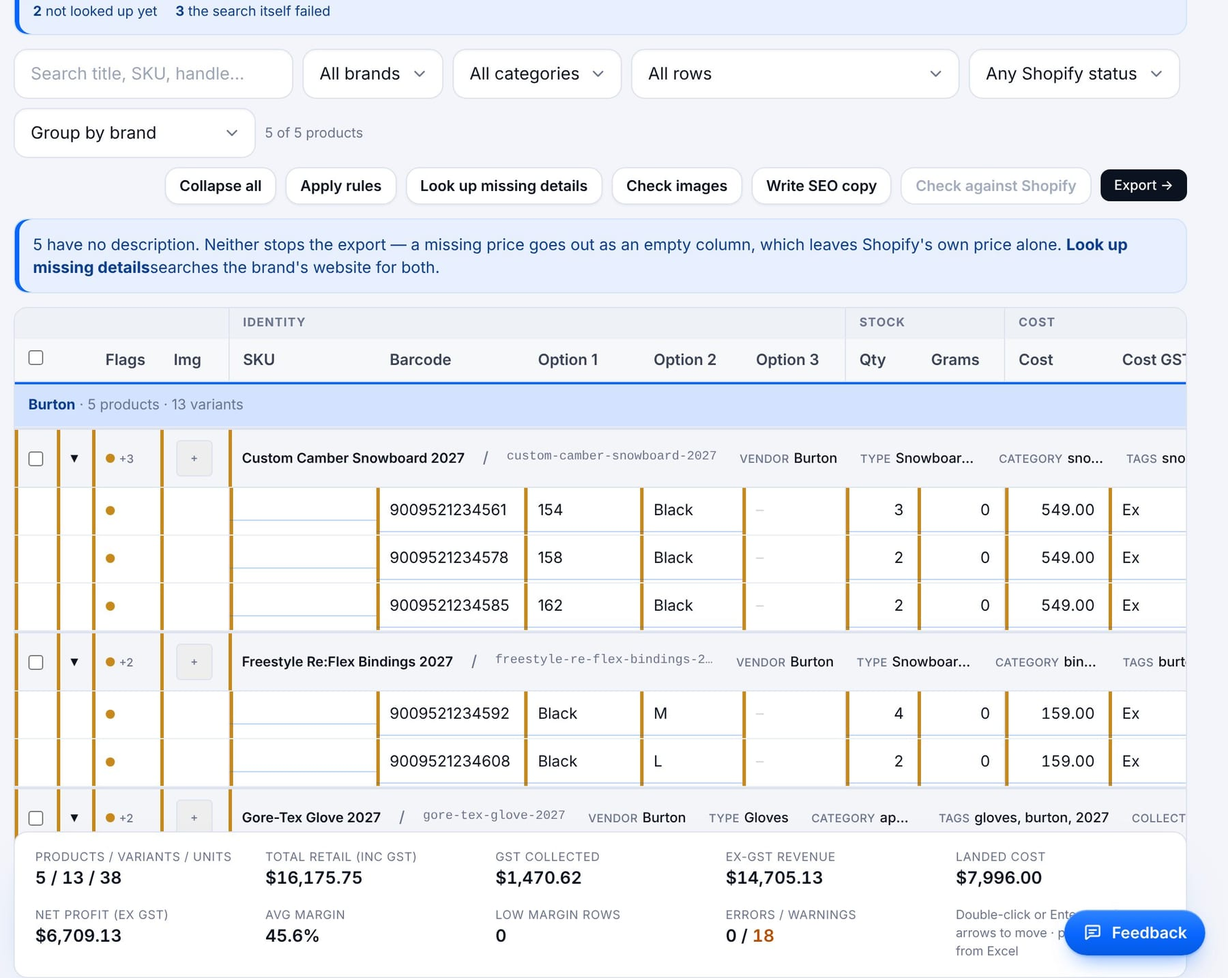
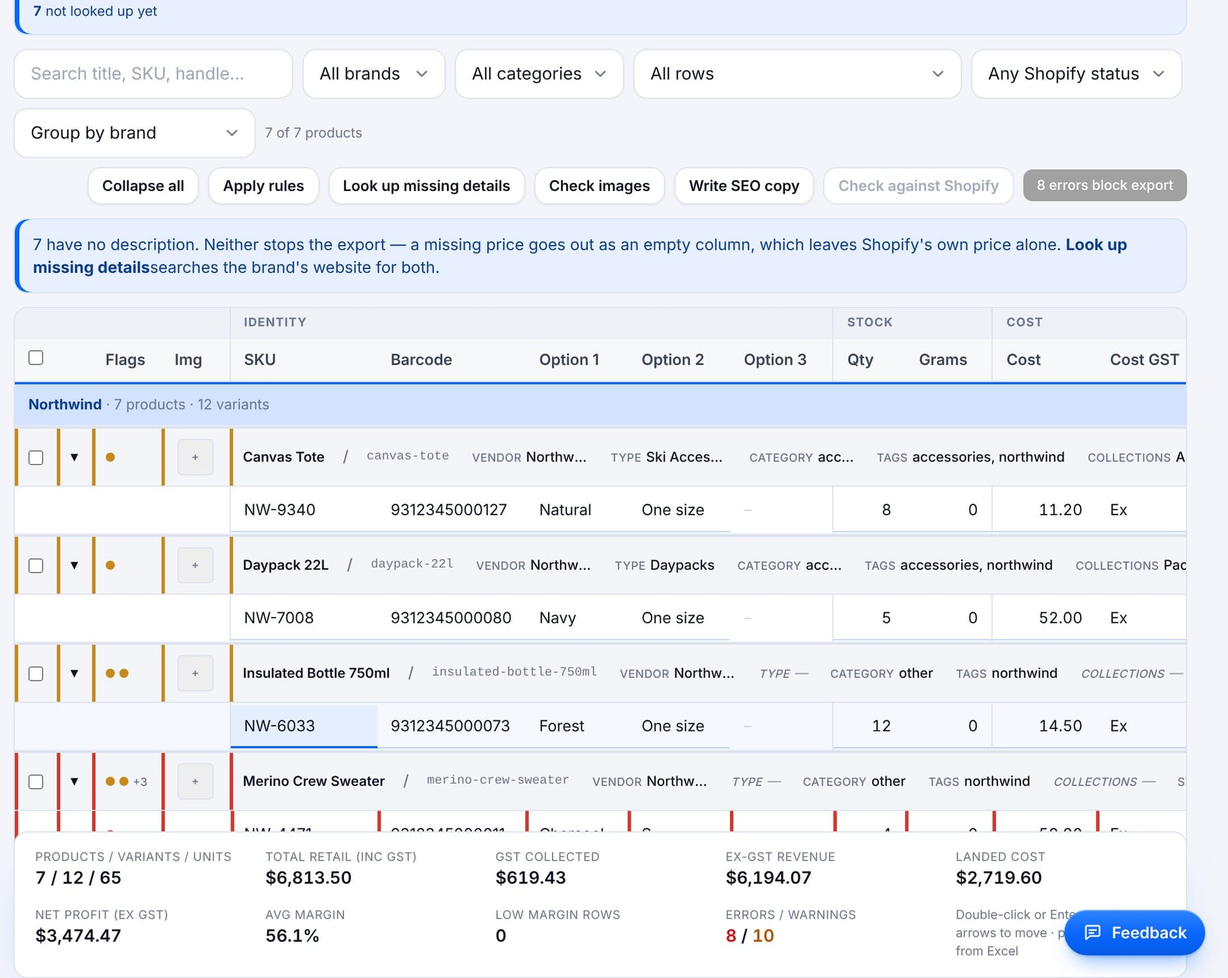
The site, finished: an F for a mark, real screens throughout, generic products
The mark is a plain F on the blue tile; the face is gone, from the app,
the tab icon and the site. The strip of supplier names is gone too.

The landing page is built out and every product on it is generic: the
hero shows the real review grid with a supplier order of knitwear,
footwear, bags and drinkware in it; a strip of four facts replaces the
counters; the story's rows and the tiles are real screens; the gallery
has eight screens; the proof section speaks of paperwork, not skis; who
it is for is four kinds of specialty retail; and two sections are new,
one on where a shop's data lives and one with the four questions
retailers ask first.

Claude-Session: https://claude.ai/code/session_01FNc7HJossxzphqBv4JDBsT

diff --git a/src/app/(marketing)/welcome/page.tsx b/src/app/(marketing)/welcome/page.tsx
@@ -1,6 +1,9 @@
 import type { Metadata } from "next";
 import { RegisterForm } from "./RegisterForm";
-import { CountUp, Demo, Reveal, Tilt } from "./Motion";
+import Image from "next/image";
+import Link from "next/link";
+import { CountUp, Reveal, Tilt } from "./Motion";
+import { Faq } from "../Story";
 import { Site } from "../Shell";
 import { Story } from "../Story";
 import { Screens } from "../Screens";
@@ -11,9 +14,6 @@ export const metadata: Metadata = {
   title: "Flöda",
   description: "Supplier paperwork in, shop-ready listings out. Flöda reads invoices, order forms, spec sheets and photographed paperwork into Shopify products, stock updates and price changes, and learns how your shop does it from your own catalogue.",
 };
-
-/** The suppliers whose paperwork Flöda already reads; every shop that onboards adds to the list. */
-const BRANDS = ["Burton", "Völkl", "Marker", "Dalbello", "Atomic", "Salomon", "Head", "Rossignol", "Osprey", "Spyder", "Helly Hansen", "Oakley", "Smith", "Nemo", "Black Diamond", "Jones", "Union", "Nitro", "Petzl", "Sea to Summit"];
 
 /**
  * The front door. Everything on it is true of the product as it stands today; nothing is
@@ -35,63 +35,26 @@ export default function WelcomePage() {
               <a href="#register" className="btn btn-meta btn-lg">Start free trial<span aria-hidden>→</span></a>
               <a href="#how" className="btn btn-ghost btn-lg">See how it works</a>
             </Reveal>
-            <Reveal delay={4} as="p" className="note">A desktop app for Windows and Mac, or hosted. Built inside a working ski and snowboard shop over a full buying season.</Reveal>
+            <Reveal delay={4} as="p" className="note">14 days free on any plan. An app for Windows and Mac, or hosted. Set up with you by a Flöda engineer.</Reveal>
 
             <Reveal delay={3} className="demo-wrap">
               <Tilt>
-                <Demo>
-                  <div className="window" aria-label="A supplier order form becoming shop listings">
-                    <div className="chrome"><i /><i /><i /><span className="url">floda.ai/batches/burton-w27</span><span className="live"><b /> reading</span></div>
-                    <div className="pane">
-                      <div className="side in-box">
-                        <div className="title">What the rep sent, photographed</div>
-                        <div className="form-line" style={{ "--i": 0 } as never}><span>10688 CUSTOM CAMBER 154</span><span>3</span><span className="pen">999</span></div>
-                        <div className="form-line" style={{ "--i": 1 } as never}><span>10688 CUSTOM CAMBER 158</span><span>2</span><span className="pen">YT 27</span></div>
-                        <div className="form-line" style={{ "--i": 2 } as never}><span>13170 FREESTYLE REFLEX M</span><span>4</span><span className="pen">-20%</span></div>
-                        <div className="form-line" style={{ "--i": 3 } as never}><span>10406 GORE GLOVE L</span><span>6</span><span className="pen">w/ liner</span></div>
-                        <div className="chat"><span className="bubble you">All 2026 jackets 30% off and into clearance</span><span className="bubble floda">Done. 212 cells changed, every one listed below.</span></div>
-                      </div>
-                      <div className="mid" aria-hidden><span className="beam" /><span className="arrow">→</span></div>
-                      <div className="side out-box">
-                        <div className="title">What goes into Shopify</div>
-                        <div className="listing" style={{ "--i": 0 } as never}>
-                          <div><b>Men&rsquo;s Custom Camber Snowboard 2027</b><span className="soft">154, 158 · colour-matched pictures · tech specs from the page</span><div className="tags"><span className="tag">snowboards</span><span className="tag">freestyle and all-mountain boards</span><span className="tag grey">2027</span></div></div>
-                          <div className="price">$999.00</div>
-                        </div>
-                        <div className="listing" style={{ "--i": 1 } as never}>
-                          <div><b>Men&rsquo;s Freestyle Re:Flex Bindings 2027</b><span className="soft">stock added to the listing you already have</span><div className="tags"><span className="tag">snowboard-bindings</span><span className="tag grey">20% off</span></div></div>
-                          <div className="price">+4</div>
-                        </div>
-                        <div className="listing" style={{ "--i": 2 } as never}>
-                          <div><b>Gore Glove 2027</b><span className="soft">a size you didn&rsquo;t stock before, added as a variant</span><div className="tags"><span className="tag">ski-gloves</span><span className="tag">outdoor</span></div></div>
-                          <div className="price">+6</div>
-                        </div>
-                        <div className="check"><b>✓</b> 3 products · 9 variants · ready to import</div>
-                      </div>
-                    </div>
-                  </div>
-                </Demo>
+                <div className="window hero-shot" aria-label="The review grid, with a supplier's order read into it">
+                  <div className="chrome"><i /><i /><i /><span className="url">Flöda · Northwind order 1182 · Review</span><span className="live"><b /> 7 products · 12 variants</span></div>
+                  <div className="shot"><Image src="/shots/review-grid.jpg" alt="The review grid: every product and variant from a supplier's order with SKU, barcode, options, stock, cost and price, and the order's totals" width={1800} height={1433} sizes="(min-width: 1100px) 1040px, 100vw" priority /></div>
+                </div>
               </Tilt>
             </Reveal>
           </div>
         </section>
 
-        {/* ------------------------------------------------------------- brands */}
-        <section className="brands" aria-label="Suppliers whose paperwork Flöda reads">
-          <div className="wrap"><p className="brands-label">Reads the paperwork of</p></div>
-          <div className="marquee" aria-hidden>
-            <div className="track">
-              {[...BRANDS, ...BRANDS].map((b, i) => <span key={`${b}-${i}`}>{b}</span>)}
-            </div>
-          </div>
-        </section>
-
-        {/* -------------------------------------------------------------- stats */}
-        <section className="stats">
+        {/* -------------------------------------------------------------- facts */}
+        <section className="facts" aria-label="In short">
           <div className="wrap">
-            <Reveal className="stat"><div className="num"><CountUp to={967} /></div><p>products across ten Shopify exports, measured before a single tagging rule was written.</p></Reveal>
-            <Reveal delay={1} className="stat"><div className="num"><CountUp to={1} /><small>season</small></div><p>of real supplier paperwork: order forms, spec exports, barcode lists, invoices, photographed and scribbled on.</p></Reveal>
-            <Reveal delay={2} className="stat"><div className="num"><CountUp to={0} /></div><p>changes to your store without you seeing them first. Flöda writes files; you import them.</p></Reveal>
+            <Reveal className="fact" delay={0}><b>Spreadsheets, PDFs, photos</b><span>Whatever the supplier sends, pen marks included.</span></Reveal>
+            <Reveal className="fact" delay={1}><b>Learns your catalogue</b><span>Your own Shopify export teaches it how you file, tag and name things.</span></Reveal>
+            <Reveal className="fact" delay={2}><b>You press import</b><span>Flöda writes the file. Nothing touches your store on its own.</span></Reveal>
+            <Reveal className="fact" delay={3}><b>Set up with you</b><span>A Flöda engineer on a call, on your own invoices, supplier by supplier.</span></Reveal>
           </div>
         </section>
 
@@ -111,8 +74,8 @@ export default function WelcomePage() {
               ]}
               panels={[
                 <div key="in" className="sp sp-in"><div className="sheet"><span className="pen">×3</span><i /><i /><i /><i /><span className="pen two">YT 27</span></div><div className="cap">What the rep sent, photographed</div></div>,
-                <div key="shape" className="sp sp-shape"><div className="rowz"><div className="r h"><span>Product</span><span>Type</span><span>Tags</span><span>Price</span></div><div className="r"><span>Custom Camber 154</span><span>Snowboards</span><span>freestyle · 2027</span><span>$999</span></div><div className="r"><span>Freestyle Re:Flex M</span><span>Bindings</span><span>snowboard-bindings</span><span>$299</span></div><div className="r"><span>Gore Glove L</span><span>Gloves</span><span>ski-gloves · outdoor</span><span>$89.95</span></div></div><div className="cap">Named, filed, tagged and priced your way</div></div>,
-                <div key="check" className="sp sp-check"><div className="grid"><div className="cell ok">✓ 3 products</div><div className="cell ok">✓ 9 variants</div><div className="cell warn">! 1 to check</div><div className="cell dl">↓ Shopify CSV</div></div><div className="cap">You check, you press import</div></div>,
+                <div key="shape" className="sp sp-shape"><div className="rowz"><div className="r h"><span>Product</span><span>Type</span><span>Tags</span><span>Price</span></div><div className="r"><span>Merino Crew Sweater</span><span>Knitwear</span><span>merino · winter</span><span>$139</span></div><div className="r"><span>Trail Runner 2</span><span>Footwear</span><span>trail-running</span><span>$179</span></div><div className="r"><span>Daypack 22L</span><span>Bags</span><span>daypacks · travel</span><span>$129</span></div></div><div className="cap">Named, filed, tagged and priced your way</div></div>,
+                <div key="check" className="sp sp-check"><div className="grid"><div className="cell ok">✓ 7 products</div><div className="cell ok">✓ 12 variants</div><div className="cell warn">! 1 to check</div><div className="cell dl">↓ Shopify CSV</div></div><div className="cap">You check, you press import</div></div>,
               ]}
             />
           </div>
@@ -123,46 +86,31 @@ export default function WelcomePage() {
           <div className="wrap">
             <Reveal className="head">
               <span className="eyebrow">What it does</span>
-              <h2>The jobs a buying season is made of, done in an afternoon.</h2>
+              <h2>The jobs a delivery is made of, done in an afternoon.</h2>
             </Reveal>
             <div className="bento">
               <Reveal className="tile big" delay={0}>
-                <div className="tile-ui">
-                  <div className="ui-row head"><span>Product</span><span>Type</span><span>Tags</span><span>Price</span></div>
-                  <div className="ui-row"><span>Mantra M7 177</span><span>Skis</span><span>freeride and powder skis</span><span>$1,299</span></div>
-                  <div className="ui-row"><span>Griffon 13 ID</span><span>Ski Bindings</span><span>alpine-bindings</span><span>$399</span></div>
-                  <div className="ui-row hl"><span>Mantra M7 inc Griffon</span><span>Ski Packages</span><span>ski packages</span><span>$1,639</span></div>
-                  <div className="ui-row"><span>Kore 99 184</span><span>Skis</span><span>frontside and all-mountain skis</span><span>$1,199</span></div>
-                </div>
+                <div className="tile-shot"><Image src="/shots/review-grid.jpg" alt="The review grid" width={1800} height={1433} sizes="(min-width: 860px) 560px, 100vw" /></div>
                 <h3>New products</h3>
                 <p>Invoices and order confirmations into ready-to-import listings: read, joined to the spec sheet and barcode list, named, categorised, tagged, priced, with descriptions, specs and colour-matched pictures from the brand&rsquo;s own page.</p>
               </Reveal>
               <Reveal className="tile" delay={1}>
-                <div className="tile-ui chat-ui">
-                  <span className="bubble you">Put the Spyder jackets 30% off and into clearance</span>
-                  <span className="bubble floda">46 products, 184 cells. Compare-at kept, clearance tag added.</span>
-                </div>
+                <div className="tile-shot"><Image src="/shots/bulk.jpg" alt="Prices and stock" width={1800} height={1138} sizes="(min-width: 860px) 360px, 100vw" /></div>
                 <h3>Prices and stock</h3>
-                <p>Changes to what you already sell, said in plain words. A sale, a clearance, a delivery to add to stock, a mount charge. Every cell that moves, shown first.</p>
+                <p>Changes to what you already sell, said in plain words. A sale, a clearance, a delivery to add to stock. Every cell that moves, shown first.</p>
               </Reveal>
               <Reveal className="tile" delay={2}>
-                <div className="tile-ui tidy-ui">
-                  <div className="photo"><i /><i /><i /><span className="pen">×3</span></div>
-                  <div className="arrow">→</div>
-                  <div className="table"><i /><i /><i /></div>
-                </div>
+                <div className="tile-shot"><Image src="/shots/tidy.jpg" alt="Tidy a document" width={1800} height={1138} sizes="(min-width: 860px) 360px, 100vw" /></div>
                 <h3>Tidy a document</h3>
                 <p>A photo of scribbled-on paperwork becomes a table you can check, doubtful readings marked, saved as a CSV the other jobs take.</p>
               </Reveal>
               <Reveal className="tile" delay={3}>
-                <div className="tile-ui learn-ui">
-                  <span className="chip">Road Bikes · 12</span><span className="chip">Helmets · 9</span><span className="chip">bikes</span><span className="chip">mountain-bikes</span><span className="chip on">learned from your export</span>
-                </div>
+                <div className="tile-shot"><Image src="/shots/learn.jpg" alt="Teach Flöda your catalogue" width={1800} height={1138} sizes="(min-width: 860px) 360px, 100vw" /></div>
                 <h3>Learns your shop</h3>
                 <p>Starts blank. Your Shopify export teaches it your kinds of product, your menus, how you spell every tag and what each brand&rsquo;s listings look like.</p>
               </Reveal>
               <Reveal className="tile" delay={4}>
-                <div className="tile-ui app-ui"><div className="dock"><span className="win">▣</span><span className="mac"></span></div><span className="lbl">Floda-Setup.exe · Floda.dmg</span></div>
+                <div className="tile-ui app-ui"><div className="dock"><span className="win">▣</span><span className="mac">⌘</span></div><span className="lbl">Floda-Setup.exe · Floda.dmg</span></div>
                 <h3>Runs on your PC</h3>
                 <p>An app for Windows and Mac, with its database on your machine. Or hosted, if you&rsquo;d rather. Your supplier costs never sit on someone else&rsquo;s server unless you choose it.</p>
               </Reveal>
@@ -176,7 +124,7 @@ export default function WelcomePage() {
             <Reveal className="head">
               <span className="eyebrow">The product</span>
               <h2>What it looks like, with a real order in it.</h2>
-              <p className="lede">These are screens from a copy of Flöda with a Burton order read into it, not drawings. Pick one.</p>
+              <p className="lede">These are screens from a copy of Flöda with a supplier&rsquo;s order read into it, not drawings. Pick one.</p>
             </Reveal>
             <Reveal delay={1}><Screens /></Reveal>
           </div>
@@ -188,16 +136,16 @@ export default function WelcomePage() {
           <div className="wrap">
             <Reveal className="head">
               <span className="eyebrow dark">Built in a real shop</span>
-              <h2>Every rule was settled against real files, not guessed.</h2>
-              <p className="lede">The shop it was built in sells skis, snowboards, boots, bindings, outerwear, packs and climbing gear. Its buying season went through Flöda line by line, and every convention the catalogue had was measured before it was written down.</p>
+              <h2>Every rule was settled against real paperwork, not guessed.</h2>
+              <p className="lede">Flöda was built inside a working specialty retailer, and that shop&rsquo;s whole buying season went through it line by line: twenty-odd suppliers, every layout they send, every convention the catalogue had. What that taught it is what makes the first invoice from any supplier read well, whatever the shop sells.</p>
             </Reveal>
             <Reveal delay={1} className="quote-card">
               <p className="quote">&ldquo;A name is the loosest key, so it&rsquo;s the strictest match. Whole words only, never a substring, and a name that fits two products is refused with both named rather than guessed.&rdquo;</p>
               <p className="cite">From the engineering notes. The product is built this carefully all the way down.</p>
             </Reveal>
             <div className="proof">
-              <Reveal delay={1}><b>Binding mount charges</b><span>Drill-mount and system bindings told apart by model, so the mount price lands on the right ones.</span></Reveal>
-              <Reveal delay={2}><b>Name matches confirmed</b><span>An invoice without barcodes is matched by name and you say whether it&rsquo;s the same product or next year&rsquo;s model.</span></Reveal>
+              <Reveal delay={1}><b>Sizes and colours become variants</b><span>Not part of the name. Every variant gets its value, its barcode and its stock, the way Shopify wants it.</span></Reveal>
+              <Reveal delay={2}><b>Name matches confirmed</b><span>An invoice without barcodes is matched by name and you say whether it&rsquo;s the same product or this year&rsquo;s model.</span></Reveal>
               <Reveal delay={3}><b>Pictures in the colour ordered</b><span>Pulled from the brand&rsquo;s page, matched to the colourway on the order, resized and centred.</span></Reveal>
             </div>
           </div>
@@ -209,13 +157,49 @@ export default function WelcomePage() {
             <Reveal className="head">
               <span className="eyebrow">Who it&rsquo;s for</span>
               <h2>Retailers whose suppliers send paperwork, not feeds.</h2>
-              <p className="lede">Specialty retail runs on order forms and PDFs. If your season starts with a pile of them, Flöda is for you.</p>
+              <p className="lede">Specialty retail runs on order forms and PDFs. If a delivery starts with a pile of them, Flöda is for you. It starts blank and learns your catalogue, so it does not care what you sell.</p>
             </Reveal>
-            <div className="fit">
-              <Reveal className="card now" delay={0}><span className="label">Ready now</span><h3>Snow and outdoor</h3><p>Skis, boards, boots, bindings and packages, outerwear, packs and climbing gear. Binding mount charges, ski packages and season tagging built in.</p></Reveal>
-              <Reveal className="card" delay={1}><span className="label">Starts blank, learns yours</span><h3>Bikes</h3><p>The same supplier paperwork problem, with sizes, colours and model years that change every season.</p></Reveal>
-              <Reveal className="card" delay={2}><span className="label">Starts blank, learns yours</span><h3>Fishing, camping, anything specialist</h3><p>Tell us which supplier gives you the most grief and we&rsquo;ll start there.</p></Reveal>
+            <div className="fit four">
+              <Reveal className="card" delay={0}><span className="label">Sizes, colours, seasons</span><h3>Outdoor and sports</h3><p>Apparel, footwear, packs, hardware. Model years that change every season and sizes that run in two scales.</p></Reveal>
+              <Reveal className="card" delay={1}><span className="label">Colourways and size runs</span><h3>Fashion and footwear</h3><p>A style in six colours and eight sizes is one product with forty-eight variants, not forty-eight lines typed by hand.</p></Reveal>
+              <Reveal className="card" delay={2}><span className="label">Long catalogues</span><h3>Home and lifestyle</h3><p>Kitchen, gifts, toys, stationery: many suppliers, small orders, and a tag taxonomy nobody wants to retype.</p></Reveal>
+              <Reveal className="card" delay={3}><span className="label">Starts blank, learns yours</span><h3>Bikes, fishing, anything specialist</h3><p>Tell us which supplier gives you the most grief and that is where set-up starts.</p></Reveal>
             </div>
+          </div>
+        </section>
+
+        {/* -------------------------------------------------------------- data */}
+        <section id="data" className="band grey">
+          <div className="wrap">
+            <Reveal className="head">
+              <span className="eyebrow">Your data</span>
+              <h2>Your costs stay on your machine.</h2>
+              <p className="lede">A desktop copy keeps its database and every file you upload on your own computer. The only things that leave it are the ones we list, and we list them all.</p>
+            </Reveal>
+            <div className="data">
+              <Reveal className="dcard" delay={0}><span className="ico" aria-hidden>🖥</span><h3>On your machine</h3><p>Your suppliers, prices, imports and staff accounts live in Flöda&rsquo;s data folder on your PC or Mac. Uninstall it and the folder is still yours.</p></Reveal>
+              <Reveal className="dcard" delay={1}><span className="ico" aria-hidden>🛡</span><h3>Nothing to your store on its own</h3><p>Flöda writes a Shopify file. You look at the grid, download the file and import it. There is no connection that can change a listing without you.</p></Reveal>
+              <Reveal className="dcard" delay={2}><span className="ico" aria-hidden>🤖</span><h3>Reading by AI, included</h3><p>Documents are read by Claude through Anthropic&rsquo;s API, which does not train on them. Only the document goes, never your catalogue. <Link href="/privacy">Exactly what leaves your machine.</Link></p></Reveal>
+            </div>
+          </div>
+        </section>
+
+        {/* --------------------------------------------------------- questions */}
+        <section id="questions" className="band">
+          <div className="wrap qa">
+            <Reveal className="head">
+              <span className="eyebrow">Questions</span>
+              <h2>The ones retailers ask first.</h2>
+              <p className="lede">The rest are on the <Link href="/faq">questions page</Link>, and a person answers the ones that are not.</p>
+            </Reveal>
+            <Reveal delay={1}>
+              <Faq items={[
+                { q: "Do I need an Anthropic account or an API key?", a: <p>No. Reading by AI is included in every plan. A shop that would rather have the reading billed to its own Anthropic account can paste a key of its own in Settings.</p> },
+                { q: "What happens on the first invoice from a new supplier?", a: <p>Flöda says it is a new layout and asks you to check the five things a new layout gets wrong. What you fix is remembered for that supplier. In setup you can do this for every supplier at once, from one example each.</p> },
+                { q: "Does it work for shops that are not outdoor or sports?", a: <p>Yes. Flöda starts blank and learns your kinds of product, your menus, your tags and your naming from your own Shopify export. It does not care what you sell.</p> },
+                { q: "How does the free trial work?", a: <p>Every plan starts with 14 days free and no card. You pick a plan when you set up, use everything, and a person from Flöda gets in touch before the trial ends. Nothing is charged until you have said which plan you want.</p> },
+              ]} />
+            </Reveal>
           </div>
         </section>
 

diff --git a/src/app/(marketing)/welcome/welcome.css b/src/app/(marketing)/welcome/welcome.css
@@ -419,3 +419,33 @@
 .floda .screens-frame .shot img { position: absolute; inset: 0; width: 100%; height: 100%; object-fit: contain; object-position: top left; opacity: 0; transition: opacity 0.35s ease; }
 .floda .screens-frame .shot img.on { opacity: 1; }
 @media (min-width: 860px) { .floda .screens { grid-template-columns: 300px 1fr; gap: 28px; align-items: start; } .floda .screens-list { position: sticky; top: 100px; } }
+
+/* ----------------------------------------------------------------------- hero shot, facts */
+.floda .hero-shot .shot { position: relative; aspect-ratio: 16 / 9.4; overflow: hidden; background: var(--f-grey); }
+.floda .hero-shot .shot img { position: absolute; inset: 0; width: 100%; height: auto; display: block; }
+.floda .facts { padding-block: 40px 8px; }
+.floda .facts .wrap { display: grid; gap: 14px; }
+.floda .fact { display: grid; gap: 4px; padding: 18px 20px; border-radius: 16px; background: var(--f-white); border: 1px solid var(--f-line); }
+.floda .fact b { font-size: 15px; }
+.floda .fact span { font-size: 13.5px; line-height: 1.45; color: var(--f-ink-2); }
+@media (min-width: 760px) { .floda .facts .wrap { grid-template-columns: repeat(4, 1fr); } }
+
+/* ---------------------------------------------------------------------- tiles with shots */
+.floda .tile-shot { position: relative; aspect-ratio: 16 / 10; overflow: hidden; border-radius: 14px; border: 1px solid var(--f-line); background: var(--f-grey); margin-bottom: 8px; }
+.floda .tile-shot img { position: absolute; inset: 0; width: 100%; height: 100%; object-fit: cover; object-position: top left; }
+.floda .tile.big .tile-shot { aspect-ratio: auto; height: 100%; min-height: 240px; margin: 0; }
+@media (min-width: 860px) { .floda .tile.big .tile-shot { grid-area: ui; } }
+
+/* ------------------------------------------------------------------------- who, data, qa */
+@media (min-width: 760px) { .floda .fit.four { grid-template-columns: repeat(2, 1fr); } }
+@media (min-width: 1000px) { .floda .fit.four { grid-template-columns: repeat(4, 1fr); } }
+.floda .data { display: grid; gap: 16px; }
+.floda .dcard { display: grid; gap: 10px; align-content: start; padding: 26px; border-radius: var(--f-r); background: var(--f-white); border: 1px solid var(--f-line); }
+.floda .dcard .ico { display: grid; place-items: center; width: 44px; height: 44px; border-radius: 12px; background: var(--f-tint); font-size: 20px; }
+.floda .dcard h3 { font-size: 19px; }
+.floda .dcard p { font-size: 15px; color: var(--f-ink-2); }
+.floda .dcard a { color: var(--f-meta); font-weight: 600; }
+@media (min-width: 760px) { .floda .data { grid-template-columns: repeat(3, 1fr); } }
+.floda .qa .head { max-width: 820px; }
+.floda .qa .lede a { color: var(--f-meta); font-weight: 600; }
+.floda .qa .faq { max-width: 820px; }

diff --git a/src/app/(marketing)/Screens.tsx b/src/app/(marketing)/Screens.tsx
@@ -4,14 +4,17 @@ import Image from "next/image";
 import { useState } from "react";
 
 /**
- * The product as it is, not as drawn: real screens from a copy of Flöda with a Burton order
+ * The product as it is, not as drawn: real screens from a copy of Flöda with a supplier's order
  * read into it. One at a time, picked from the list beside it, inside a window frame.
  */
 const SCREENS = [
   { id: "review", title: "The review grid", text: "Every product and variant in one grid: SKU, barcode, options, stock, cost, price and margin, with the totals for the whole order at the bottom. Nothing goes to Shopify until you have looked at it here.", src: "/shots/review-grid.jpg", width: 1800, height: 1433 },
+  { id: "first", title: "A new supplier's first invoice", text: "The first invoice from a supplier gets a closer look: the five things a new layout gets wrong, listed above the grid, and what you fix is remembered for them.", src: "/shots/review-top.jpg", width: 1800, height: 1138 },
   { id: "suppliers", title: "Setup: your suppliers", text: "One example from each supplier, read on the spot. Every column is shown against what Flöda took it for, you fix anything in the wrong place, and the layout is remembered for that supplier.", src: "/shots/suppliers.jpg", width: 1800, height: 1138 },
+  { id: "learn", title: "Setup: your catalogue", text: "Your Shopify export, read on your own computer, teaches Flöda your kinds of product, your menus and how you spell every tag. Only what was learned is kept.", src: "/shots/learn.jpg", width: 1800, height: 1138 },
   { id: "home", title: "Home", text: "The three jobs, and a checklist that walks a new shop through setup and goes away when it is done.", src: "/shots/home.jpg", width: 1800, height: 1138 },
   { id: "bulk", title: "Prices and stock", text: "Load your Shopify export, say the change in plain words or add a delivery, and check every cell that moves before you download the file.", src: "/shots/bulk.jpg", width: 1800, height: 1138 },
+  { id: "tidy", title: "Tidy a document", text: "A photo or a scan of an order, pen marks and all, read into a table you can check and save as a CSV the other jobs take.", src: "/shots/tidy.jpg", width: 1800, height: 1138 },
   { id: "batches", title: "New products", text: "Each import is one supplier order that becomes one Shopify file. Who built it, when, and how many products and units.", src: "/shots/batches.jpg", width: 1800, height: 1138 },
 ];
 

diff --git a/src/app/Logo.tsx b/src/app/Logo.tsx
@@ -1,12 +1,9 @@
 import { cx } from "@/app/(catalog)/ui";
 
 /**
- * The Flöda mark: the umlaut, made into the brand. Two drops over the bowl of the "ö", on a tile
- * that runs from Meta blue to a brighter sky — the name's own letter, and a nod to what the app
- * does: paperwork poured in, listings flowing out.
- *
- * Inline SVG so it is crisp at any size, needs no file, and takes its colours from the page where
- * the wordmark is drawn in ink.
+ * The Flöda mark: the letter, and nothing else. A heavy geometric F in white on the blue tile,
+ * its two bars stepped like lines on a form, so it reads as "F" at 16px in a tab and as a tile on
+ * a desktop. Inline SVG so it is crisp at any size and needs no file.
  */
 export function Mark({ size = 28, className }: { size?: number; className?: string }) {
   return (
@@ -18,15 +15,15 @@ export function Mark({ size = 28, className }: { size?: number; className?: stri
           <stop offset="1" stopColor="#38a9ff" />
         </linearGradient>
         <linearGradient id="floda-sheen" x1="0" y1="0" x2="0" y2="1">
-          <stop offset="0" stopColor="#ffffff" stopOpacity="0.22" />
+          <stop offset="0" stopColor="#ffffff" stopOpacity="0.2" />
           <stop offset="1" stopColor="#ffffff" stopOpacity="0" />
         </linearGradient>
       </defs>
       <rect x="2" y="2" width="60" height="60" rx="17" fill="url(#floda-tile)" />
       <rect x="2" y="2" width="60" height="30" rx="17" fill="url(#floda-sheen)" />
-      <circle cx="23" cy="20" r="5.2" fill="#fff" />
-      <circle cx="41" cy="20" r="5.2" fill="#fff" />
-      <path d="M15 33.5c0 11 7.6 18.5 17 18.5s17-7.5 17-18.5" fill="none" stroke="#fff" strokeWidth="7" strokeLinecap="round" />
+      <rect x="18" y="14" width="10" height="36" rx="2.5" fill="#fff" />
+      <rect x="18" y="14" width="29" height="10" rx="2.5" fill="#fff" />
+      <rect x="18" y="29" width="22" height="9" rx="2.5" fill="#fff" />
     </svg>
   );
 }

diff --git a/docs/FLODA.md b/docs/FLODA.md
@@ -154,8 +154,10 @@ Everything in `HANDOVER.md` under "Working on it" applies. In addition:
   changes with the step in view) and the FAQ accordion. Pages: `/welcome` (landing), `/about`,
   `/faq`, `/privacy`, `/download` (the newest release's installers, asked of GitHub's API and
   remembered for ten minutes, with the releases page as the fallback). `src/proxy.ts` lists them
-  as public. The landing page's "The product" section (`Screens.tsx`) shows real screens from a
-  copy with a Burton order read into it (`public/shots/`); every header page has a menu.
+  as public. The landing page uses real screens (`public/shots/`, captured from a copy with a
+  generic supplier order read into it, products across apparel, footwear, bags and homewares) in
+  the hero, the "What it does" tiles and the "The product" gallery (`Screens.tsx`); every header
+  page has a menu. The mark is a plain F on the blue tile (`Logo.tsx`, `icon.svg`).
 - A copy that checks a licence begins setup with its plan (`TrialStep.tsx`): the admin picks a
   plan and starts the 14-day trial from inside the app, or enters a key. The vendor answers
   `POST /api/licence/trial` by making the client and the key (one trial per email address) and
